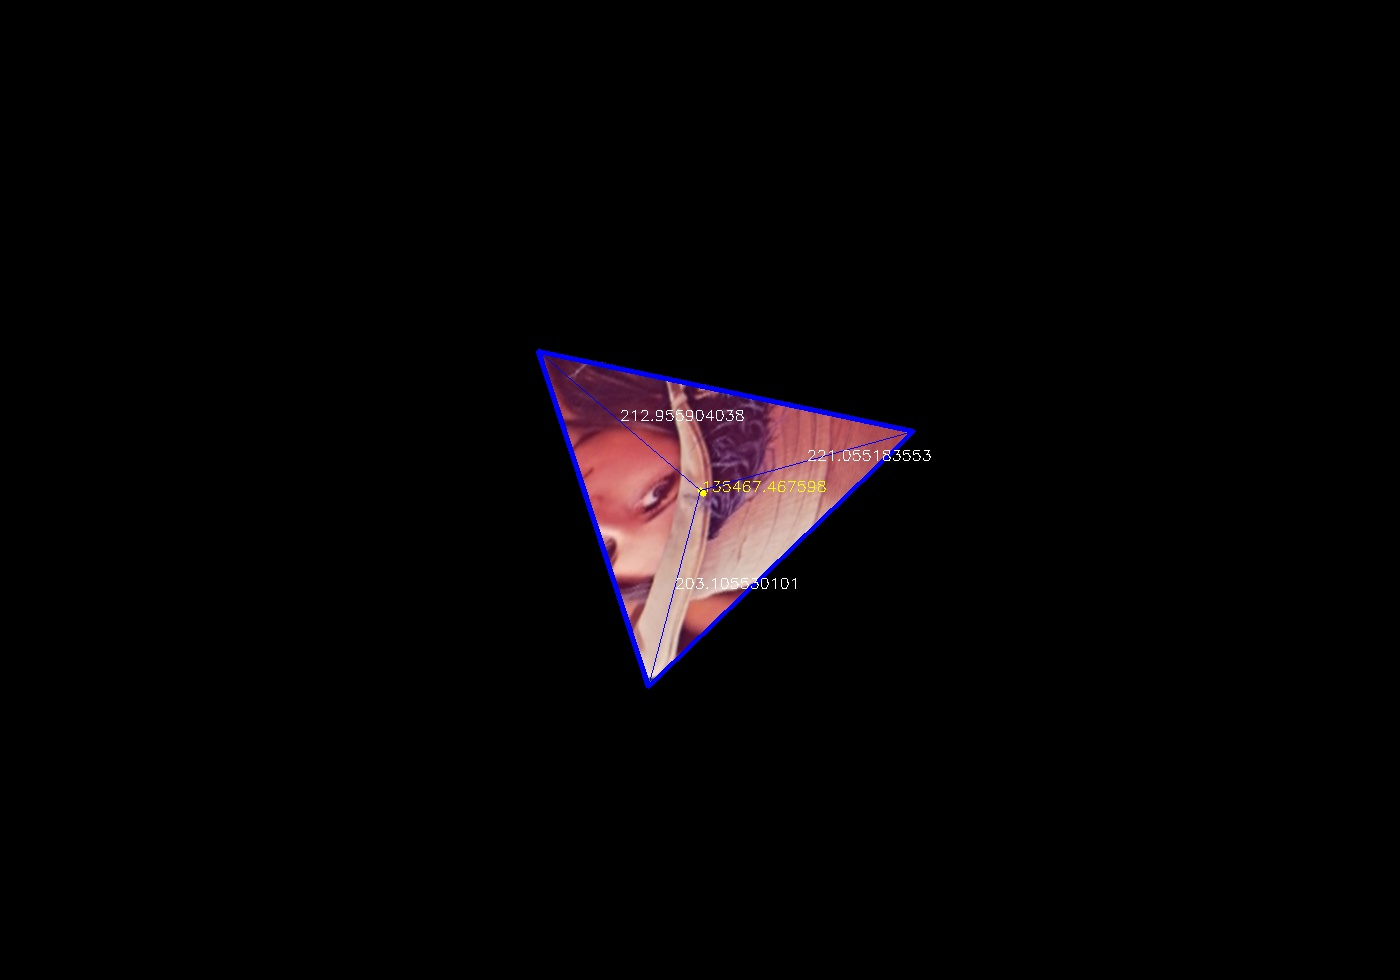
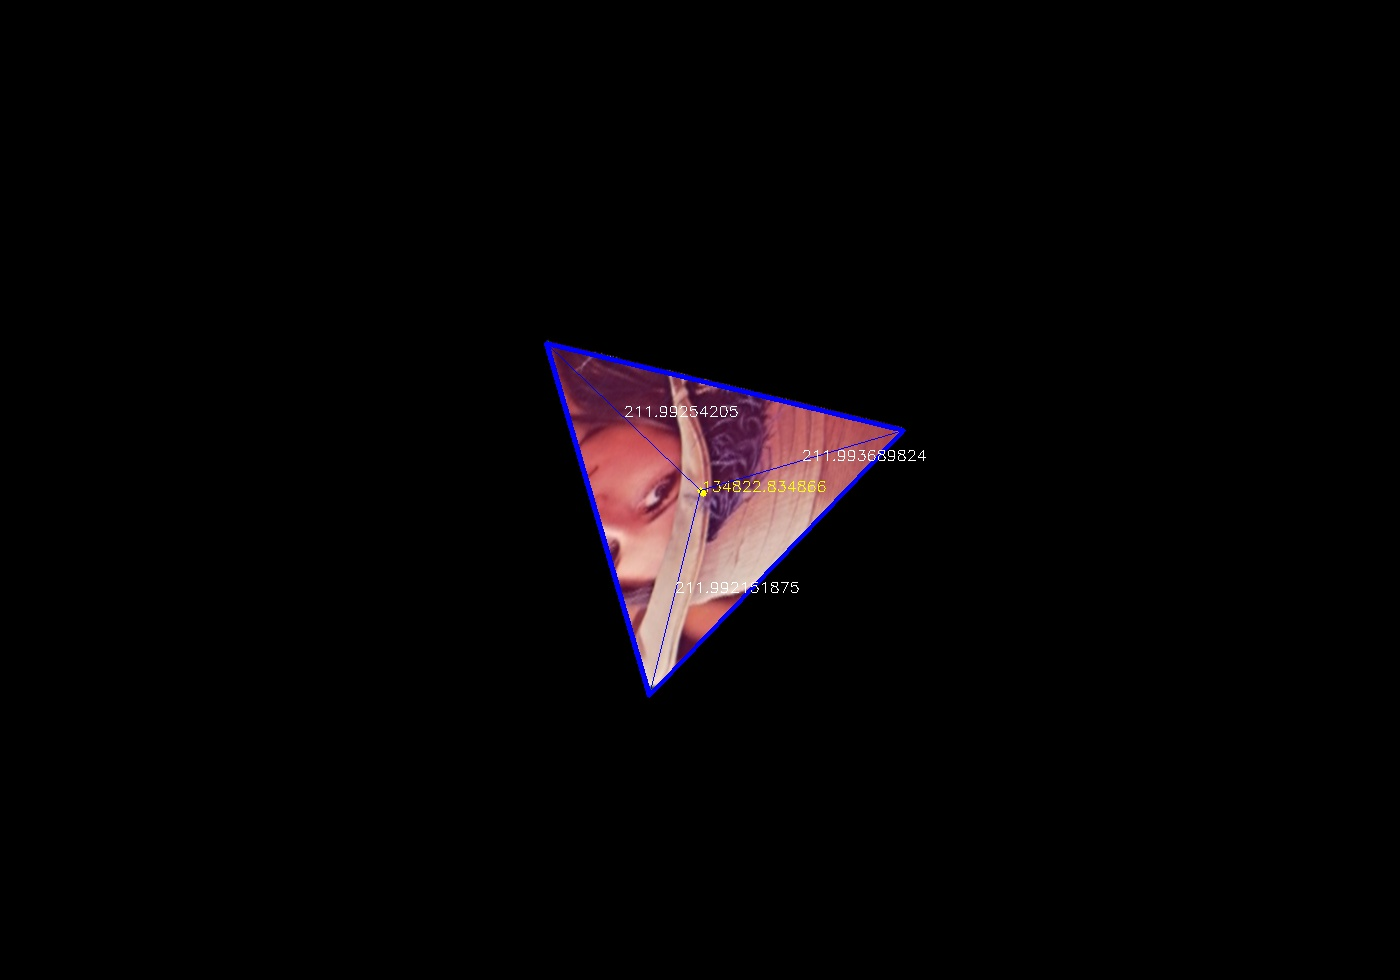
added triangle rotation fix

Changed region(s): [[0.3686, 0.3367, 0.6757, 0.5816], [0.43, 0.551, 0.5529, 0.7041]]

diff --git a/brisktest.py b/brisktest.py
@@ -1,0 +1,88 @@
+from os import path
+import sys
+import numpy as np
+try:
+    import cv2
+except ImportError:
+    print 'Using the fallback cv2.pyd.'
+    from _cv2_fallback import cv2
+
+
+def proportional_gaussian(image):
+    """Help objects with differing sharpness / resolution look more similar"""
+    kernel_w = int(2.0 * round((image.shape[1]*0.005+1)/2.0)-1)
+    kernel_h = int(2.0 * round((image.shape[0]*0.005+1)/2.0)-1)
+    return cv2.GaussianBlur(image, (kernel_w, kernel_h), 0)
+
+def polygon_area(vertices):
+    """Calculate the area of the vertices described by the sequence of vertices.
+
+    Thanks to Darel Rex Finley: http://alienryderflex.com/polygon_area/
+    """
+    area = 0.0
+    X = [float(vertex[0]) for vertex in vertices]
+    Y = [float(vertex[1]) for vertex in vertices]
+    j = len(vertices) - 1
+    for i in range(len(vertices)):
+        area += (X[j] + X[i]) * (Y[j] - Y[i])
+        j = i
+    return abs(area) / 2 #abs in case it's negative
+
+
+# Fundamental Parts
+
+detector = cv2.FastFeatureDetector() #there are many other detectors
+extractor = cv2.DescriptorExtractor_create('BRISK') #non-patented! Thank you!!!
+matcher = cv2.BFMatcher(cv2.NORM_L2SQR)
+
+
+# Object Features
+
+obj_original = cv2.imread(path.join('source_images', 'object.png'), cv2.CV_LOAD_IMAGE_COLOR)
+if obj_original is None:
+    print 'Couldn\'t find the object image with the provided path.'
+    sys.exit()
+
+
+obj_gray = cv2.cvtColor(obj_original, cv2.COLOR_BGR2GRAY) #basic feature detection works in grayscale
+obj = proportional_gaussian(obj_gray) #mild gaussian
+#mask with white in areas to consider, black in areas to ignore
+obj_mask = cv2.imread(path.join('source_images', 'object_mask.png'), cv2.CV_LOAD_IMAGE_GRAYSCALE)
+if obj_mask is None:
+    print 'Couldn\'t find the object mask image with the provided path. Continuing without it.'
+
+
+#this is the fingerprint:
+obj_keypoints = detector.detect(obj, obj_mask)
+obj_keypoints, obj_descriptors = extractor.compute(obj, obj_keypoints)
+print 'Object Summary'
+print '    {} keypoints'.format(len(obj_keypoints))
+
+
+# Scene Features
+
+scene_original = cv2.imread(path.join('source_images', 'scene.png'), cv2.CV_LOAD_IMAGE_COLOR)
+if scene_original is None:
+    print 'Couldn\'t find the scene image with the provided path.'
+    sys.exit()
+
+
+scene_gray = cv2.cvtColor(scene_original, cv2.COLOR_BGR2GRAY)
+scene = proportional_gaussian(scene_gray)
+#mask with white in areas to consider, black in areas to ignore
+scene_mask = cv2.imread('scene_mask.png', cv2.CV_LOAD_IMAGE_GRAYSCALE)
+if scene_mask is None:
+    print 'Couldn\'t find the scene mask image with the provided path. Continuing without it.'
+
+
+#this is the fingerprint:
+scene_keypoints = detector.detect(scene, scene_mask)
+scene_keypoints, scene_descriptors = extractor.compute(scene, scene_keypoints)
+print 'Scene Summary'
+print '    {} keypoints'.format(len(scene_keypoints))
+
+
+
+
+cv2.waitKey()
+cv2.destroyAllWindows()

diff --git a/testForTheGetMinimum.py b/testForTheGetMinimum.py
@@ -88,8 +88,6 @@ def getAllTheFragments_justPoints(imgName):
 def getTheFragment(imgName):
 	############just take the first frag
 	ret = getAllTheFragments_justPoints(imgName)
-	print "ret"
-	print ret
 
 	tempShape = ret[0]
 	shape = []
@@ -160,12 +158,25 @@ def drawOrgFrag(imgName):
 	##########draw the frag with lines########
 	shape, ret = getTheFragment(imgName)
 	orginalFrag = d.drawShapeWithAllTheDistances_withBaseImage(ret, shape, (255,0,0))
-	cv2.imwrite("./orginalFrag_"+imgName+".jpg", orginalFrag)
+	cv2.imwrite("./frags/orginalFrag_"+imgName+".jpg", orginalFrag)
 	##########################################
 
 #the shape should be coords in the image (100,100) -> (600,800)
 def doNewTest2ForAFragement(shape, img):
 	pass
+
+def weNeedToAdd180(rot, shape):
+	resShape = BSO.rotateShape(shape, rot)
+	resShape = BSO.centerShapeUsingPoint(resShape, (0,0))
+	count = 0
+	for pt in resShape:
+		if pt[1] < 0:
+			count = count+1
+
+	if count > 1:
+		return True
+	else: 
+		return False
 
 def newTest2(imgName, rangeInput):
 	##########draw the frag with lines########
@@ -185,16 +196,28 @@ def newTest2(imgName, rangeInput):
 	temp = cv2.imread("./temp.jpg", 0)
 
 	###fix rotation for image and shape
-	minRot = g._getMinimumRotation(temp)
-	#minRot = 0
-	resShape = BSO.rotateShape(resShape, minRot)
-	ret = BIO.rotateImg(ret, minRot)
-	resShape, newRet = expandShapeToTakeUpAllImage(resShape, ret);
-	#######rotation fixed 
+	#minRot = g._getMinimumRotation(temp)
+	minRots = BSO.getFlatRotations(resShape)
+	print minRots
+	########################################
+	backUpRet = ret
+	backUpShape = resShape
+	for minRot in minRots:
+		ret = backUpRet
+		resShape = backUpShape
 
-	cv2.imwrite("./output_"+ imgName +".jpg", newRet);
-	ret = d.drawShapeWithAllTheDistances_withBaseImage(ret, resShape, (255,0,0))
-	cv2.imwrite("./debug_output_"+ imgName +".jpg", ret);
+		if weNeedToAdd180(minRot, resShape):
+			minRot = minRot + 180
+
+		resShape = BSO.rotateShape(resShape, minRot)
+		ret = BIO.rotateImg(ret, minRot)
+		resShape, newRet = expandShapeToTakeUpAllImage(resShape, ret);
+		#######rotation fixed 
+		tempName1 = "./output/output_"+ imgName + str(minRot)+".jpg"
+		print tempName1 + " : " + str(minRot)
+		cv2.imwrite(tempName1, newRet);
+		ret = d.drawShapeWithAllTheDistances_withBaseImage(ret, resShape, (255,0,0))
+		cv2.imwrite("./output/debug_output_"+ imgName +str(minRot)+".jpg", ret);
 	######################################### 	
 
 
@@ -202,14 +225,8 @@ def testingGettingTheLocalMinimum():
 	pass
 
 
-xmin = [93., 4.]
-xmax = [98., 5.]
-newTest2("extreme", [(97.5,97.8), (4.,5.)] )
-xmin = [138., 1.]
-xmax = [149., 2.]
-newTest2("testImage1", [(138.,149.), (1.,2.)] )
-xmin = [30., 1.]
-xmax = [40., 2.]
-newTest2("testImage2", [(30.,40.), (1.,2.)] )
+newTest2("extreme", [(0.,359.0), (1.,8.)] )
+newTest2("testImage1", [(0.,359.0), (1.,8.)] )
+newTest2("testImage2", [(0.,359.0), (1.,8.)] )
 
 #newTest2("lennaWithMoreGreenDots")

diff --git a/getMinimumScaleForShape.py b/getMinimumScaleForShape.py
@@ -136,15 +136,8 @@ def calcDiffSquaredOfEveryPoint(shape, angle, scale):
 global_shape = []
 def f(variables, *params):
 	shape = global_shape
-	print "shape"
-	print shape
-	print "variables"
-	print variables
 	angle, scale = variables
-	val = calcDiffSquaredOfEveryPoint(shape, angle, scale)
-	print "val"
-	print val
-	return val 
+	return calcDiffSquaredOfEveryPoint(shape, angle, scale)
 
 def frange(x, y, jump):
   while x < y:
@@ -179,7 +172,6 @@ def getValuesToNormaliseScale2(shape, inputRange):
 	bounds = [(low, high) for low, high in zip(inputRange[0], inputRange[1])]
 	minimizer_kwargs = {"args": shape, "bounds": bounds}
 	val = optimize.basinhopping(f, [1,1], minimizer_kwargs=minimizer_kwargs)
-	print val
 	scale = val['x'][1]
 	if scale < 0:
 		scale = scale*-1
@@ -191,7 +183,7 @@ def getValuesToNormaliseScale(shape, inputRange):
 	
 	global global_shape 
 	global_shape = shape
-	val = optimize.differential_evolution(f, bounds, maxiter=2000, popsize=2000)
+	val = optimize.differential_evolution(f, bounds)
 	
 	print val
 	scale = val['x'][1]

diff --git a/basicShapeOperations.py b/basicShapeOperations.py
@@ -79,6 +79,29 @@ def applyTransformToAllPoints(tetha, normX, normY, points):
 	
 	return ret
 
+
+def getTheRotationWeNeedToMakeTheLineFlat(line):
+	P1_x, P1_y = line[0]
+	P2_x, P2_y = line[1]
+	deltaY = P2_y - P1_y
+	deltaX = P2_x - P1_x
+	rads = math.atan2(deltaY, deltaX)
+	return math.degrees(rads)
+
+def getFlatRotations(shape):
+	#center the shape, actually there's no need to center the shape?
+	#results will always be the same?
+	lines = []
+	lines.append((shape[0], shape[1]))
+	lines.append((shape[1], shape[2]))
+	lines.append((shape[2], shape[0]))
+	rotations = []
+	for line in lines:
+		rot = getTheRotationWeNeedToMakeTheLineFlat(line)
+		rotations.append(rot)
+	return rotations
+
+
 def rotateShape(shape, angle):
 	ret = []
 	for point in shape:
@@ -86,7 +109,7 @@ def rotateShape(shape, angle):
 		ret.append(newPoint)
 
 	return ret
-	
+
 
 def scaleAndRotateShape(shape, angle, scale):
 	normX, normY = turnXIntoSqrtX(scale)

diff --git a/scaleStuffTest.py b/scaleStuffTest.py
@@ -1,0 +1,35 @@
+import cv2
+import numpy as np
+import basicImageOperations as BIO
+
+
+def main(name):
+  img = cv2.imread("./upload02.jpg")
+  img = BIO.getTheGreenPointsImage_easy(img)
+
+  cv2.imshow('cornerTest_.jpg',img)
+  if cv2.waitKey(0) & 0xff == 27:
+      cv2.destroyAllWindows()
+#  filename = name
+#  img = cv2.imread(filename)
+#  gray = cv2.cvtColor(img,cv2.COLOR_BGR2GRAY)
+#
+#  junk,g2mask = cv2.threshold(gray,125,255,cv2.THRESH_BINARY)
+#
+#  cv2.imwrite('cornerTest_'+name+'.jpg',g2mask)
+#  #if cv2.waitKey(0) & 0xff == 27:
+#  #    cv2.destroyAllWindows()
+  
+
+
+#  gray = np.float32(gray)
+#  dst = cv2.cornerHarris(gray,2,3,0.04)
+#
+#  #result is dilated for marking the corners, not important
+#  dst = cv2.dilate(dst,None)
+#
+#  # Threshold for an optimal value, it may vary depending on the image.
+#  img[dst>0.01*dst.max()]=[0,0,255]
+#
+
+main("extreme.jpg")

diff --git a/calcHashes.py b/calcHashes.py
@@ -1,0 +1,44 @@
+from PIL import Image
+import imagehash as ih
+
+hash1 = ih.average_hash(Image.open('output_extreme.jpg'))
+print "hash"
+print hash1
+
+hash2 = ih.average_hash(Image.open('output_testImage1.jpg'))
+print "hash"
+print hash2
+
+hash3 = ih.average_hash(Image.open('orginalFrag_testImage2.jpg'))
+print "hash"
+print hash3
+
+hash4 = ih.average_hash(Image.open('g.jpg'))
+print "hash"
+print hash3
+
+
+print "hash1 - hash2"
+print hash1 - hash2
+print "hash1 - hash3"
+print hash1 - hash3
+
+print "hash2 - hash1"
+print hash2 - hash1
+print "hash2 - hash3"
+print hash2 - hash3
+
+print "hash3 - hash1"
+print hash3 - hash1
+print "hash3 - hash2"
+print hash3 - hash2
+
+print "hash1 - hash4"
+print hash1 - hash4
+
+print "hash2 - hash4"
+print hash2 - hash4
+
+print "hash3 - hash4"
+print hash3 - hash4
+

diff --git a/testingNewtonsMethod.py b/testingNewtonsMethod.py
@@ -1,0 +1,17 @@
+from scipy.optimize import minimize, rosen, rosen_der
+from scipy import optimize
+
+def f(variables, *params):
+	x,y = params
+	a, b = variables
+	return (a+2)**2 + b**2
+
+
+#minimizer_kwargs = {"args": (2,1)}
+#resbrute = optimize.basinhopping(f, [-2,0], minimizer_kwargs=minimizer_kwargs)
+#print resbrute['x']
+
+bounds = [(-2,2), (-2, 2)]
+result = optimize.differential_evolution(f, bounds, args=(1,2))
+print result
+
